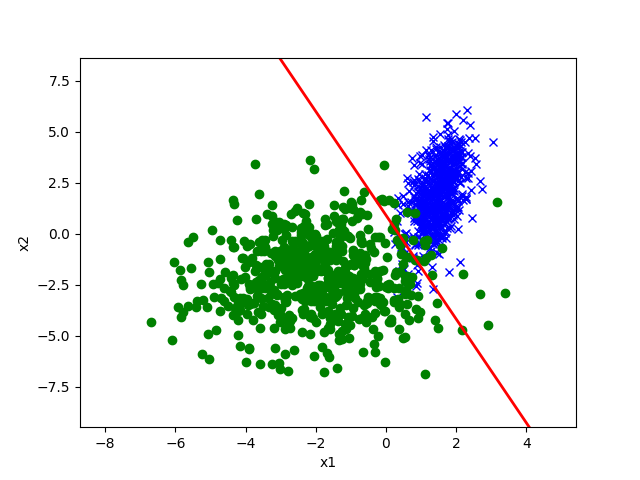
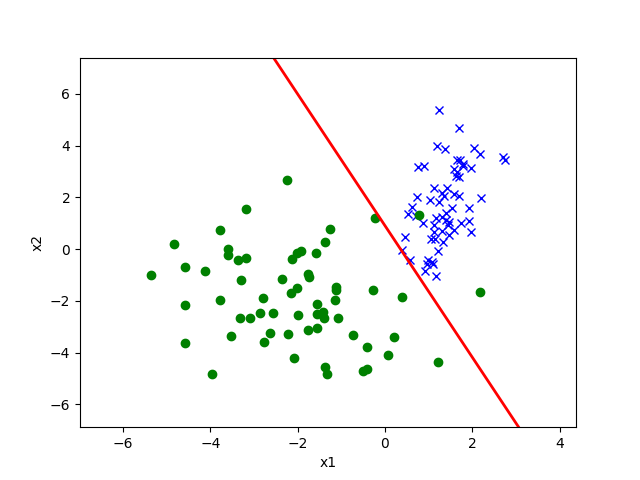
Second commit

diff --git a/log_regress.py b/log_regress.py
@@ -7,7 +7,8 @@ x_train, y_train = util.load_dataset('ds3_train.csv', add_intercept=True)
 _, t_train = util.load_dataset('ds3_train.csv', label_col='t')
 x_test, y_test = util.load_dataset('ds3_test.csv', add_intercept=True)
 _, t_test = util.load_dataset('ds3_test.csv', label_col='t')
-
+x_valid, y_valid = util.load_dataset('ds3_valid.csv', add_intercept=True)
+_, t_valid = util.load_dataset('ds3_valid.csv', label_col='t')
 
 
 class LogisticRegression(LinearModel):
@@ -25,13 +26,17 @@ class LogisticRegression(LinearModel):
             return -1 / m * np.dot(x.T, (y - h(theta, x)))
 
         def hessian(theta, x):
-            
+            """Vectorized implementation of the Hessian of J(theta).
+
+            :param theta: Shape (n,).
+            :param x:     All training examples of shape (m, n).
+            :return:      The Hessian of shape (n, n).
+            """
             m, _ = x.shape
             h_theta_x = np.reshape(h(theta, x), (-1, 1))
             return 1 / m * np.dot(x.T, h_theta_x * (1 - h_theta_x) * x)
 
         def next_theta(theta, x, y):
-            
             return theta - np.dot(np.linalg.inv(hessian(theta, x)), gradient(theta, x, y))
 
         m, n = x.shape
@@ -56,10 +61,34 @@ class LogisticRegression(LinearModel):
 log_reg = LogisticRegression()
 log_reg.fit(x_train, t_train)
 
-util.plot(x_train, t_train, log_reg.theta)
+util.plot(x_test, t_test, log_reg.theta)
 
-print("Theta is: ", log_reg.theta)
-print("The accuracy on training set is: ", np.mean(log_reg.predict(x_train) == t_train))
+print("The accuracy on test set for t is: ", np.mean(log_reg.predict(x_test) == t_test))
+
+log_reg = LogisticRegression()
+log_reg.fit(x_train, y_train)
+
+util.plot(x_test, y_test, log_reg.theta)
+print("The accuracy on test set for Y is: ", np.mean(log_reg.predict(x_test) == y_test))
+
+#Evaluate alpha
+
+def h(theta, x):
+    return 1 / (1 + np.exp(-np.dot(x, theta)))
+v_plus = x_valid[y_valid == 1]
+alpha = h(log_reg.theta, v_plus).mean()
+
+#Threshold condition
+def predict(theta, x):
+    return h(theta, x) / alpha >= 0.5
+
+theta_prime = log_reg.theta + np.log(2 / alpha - 1) * np.array([1, 0, 0])
+
+util.plot(x_test, y_test, theta_prime)
+print("The accuracy on valid set for y is: ", np.mean(log_reg.predict(x_test) == y_test))
+
+
+
 
 plt.show()
 
